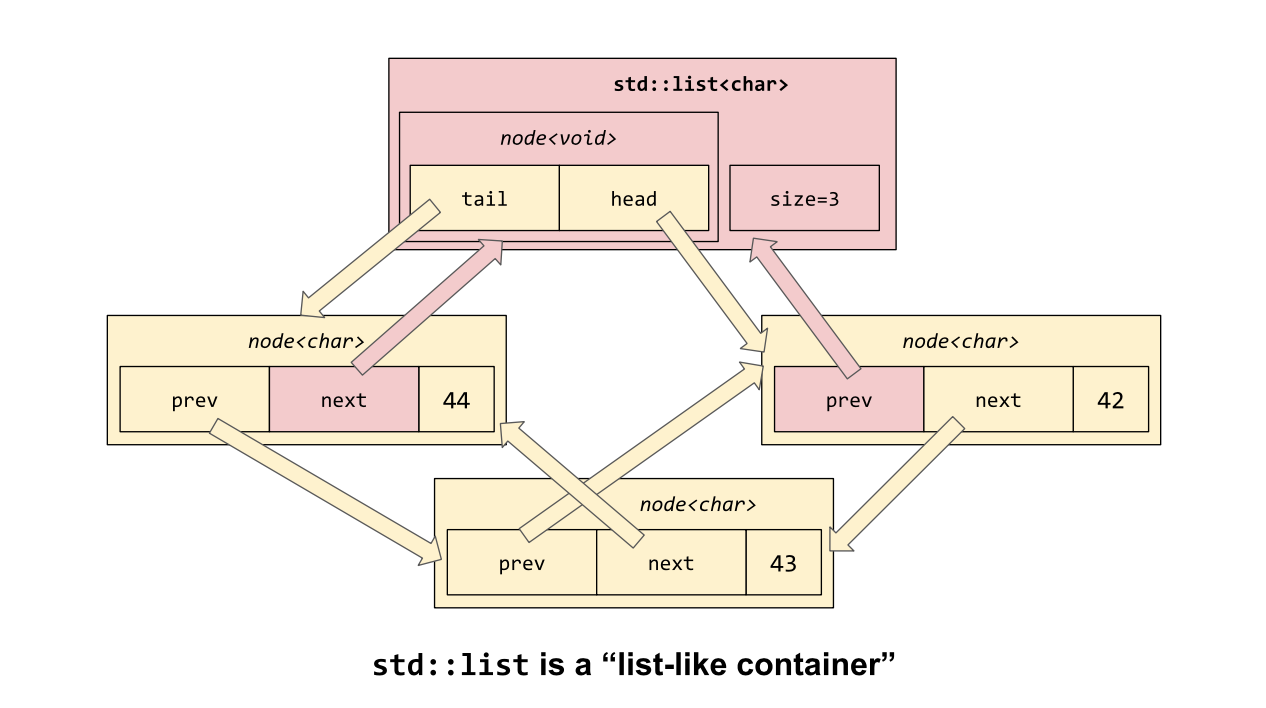
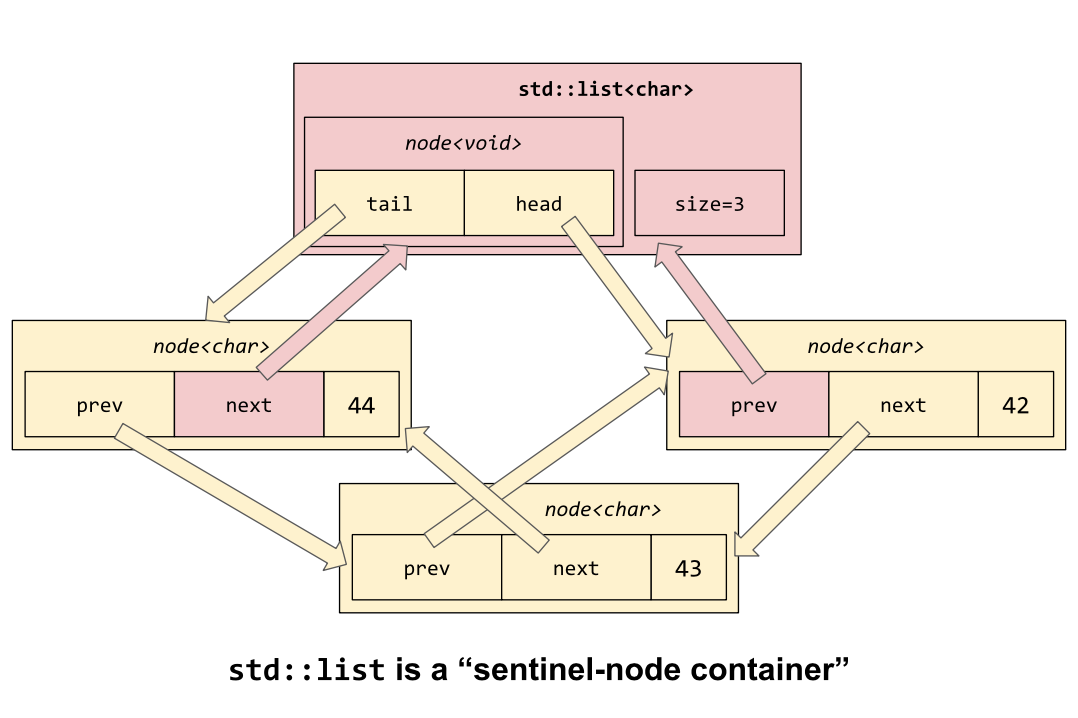
s/list-like/sentinel-node/ and add Bob's solution

Changed region(s): [[0.0, 0.0621, 1.0, 0.8701], [0.2143, 0.9011, 0.7959, 0.9633]]

diff --git a/fancy-pointers.html b/fancy-pointers.html
@@ -47,7 +47,7 @@ blockquote.std { color: #000000; background-color: #F1F1F1;
 blockquote.stddel { text-decoration: line-through;
   color: #000000; background-color: #FFEBFF;
   border: 1px solid #ECD7EC;
-  padding-left: 0.5empadding-right: 0.5em; ; }
+  padding-left: 0.5em; padding-right: 0.5em; }
 
 blockquote.stdins { text-decoration: underline;
   color: #000000; background-color: #C8FFC8;
@@ -755,19 +755,24 @@ these standard containers: <code>deque</code>, <code>forward_list</code>, <code>
 But these other standard containers <i>will</i> have technical difficulties with near fancy pointers:
 <code>list</code>, <code>map</code>, <code>set</code>, <code>unordered_set</code>, <code>unordered_map</code>.
 These containers have trouble because their natural implementation requires a linked list
-where some nodes in the linked list are allocated (i.e. fancy pointers identifying objects in
-the "small data area") and some nodes are not (i.e. these nodes are not in the "small data area"
-and thus are not addressable by the near fancy pointer type).
+where most nodes in the linked list are allocated (i.e. fancy pointers identifying objects in
+the "small data area") and some "sentinel node" is not (i.e. the sentinel node is not located
+in the "small data area" and thus is not addressable by the near fancy pointer type).
 </p>
 
 <p>
-Containers with this difficulty shall be called <dfn>list-like containers</dfn>.
+Containers with this difficulty shall be called <dfn>sentinel-node containers</dfn>.
 </p>
 
 <div display="block" align="center">
-<img src="fancy-pointers.fwdlist.png" width="40%" display="inline"></img>
 <img src="fancy-pointers.list.png" width="40%" display="inline"></img>
+<img src="fancy-pointers.fwdlist.png" width="40%" display="inline"></img>
 </div>
+
+<p>
+An implementation of <code>std::list</code> where the sentinel node is allocated (rather than being part of
+the container instance's member data) is not a <i>sentinel-node container</i>.
+</p>
 
 <p>
 We have the following possible solutions to this problem:
@@ -778,19 +783,19 @@ We have the following possible solutions to this problem:
         Any solution less appealing than this one can be summarily dismissed.)</span>
     </li>
     <li>
-        Near fancy pointer types are not allowed for <i>list-like containers</i>, but
+        Near fancy pointer types are not allowed for <i>sentinel-node containers</i>, but
         are allowed for other containers. The Standard would have to specify for each
         container whether it was list-like or not.
     </li>
     <li>
-        List-like containers use only native pointers for addressing.
+        Sentinel-node containers use only native pointers for addressing.
         These native pointers are cast back to fancy pointers at deallocation time.
         This solution loses the memory-footprint benefit we were hoping to get
         from using fancy pointers. This solution is incompatible with Scenarios A and E.
         (Therefore this solution is summarily dismissed.)
     </li>
     <li>
-        Each node of a list-like container holds an extra bit indicating whether the node
+        Each node of a sentinel-node container holds an extra bit indicating whether the node
         is allocated (in which case it is identified by a fancy pointer) or non-allocated
         (in which case it is identified by a native pointer).
         This solution loses the memory-footprint benefit we were hoping to get
@@ -798,7 +803,16 @@ We have the following possible solutions to this problem:
         (Therefore this solution is summarily dismissed.)
     </li>
     <li>
-        Near fancy pointer types are allowed for list-like containers, but if the container
+        Near fancy pointer types are allowed for sentinel-node containers, but if the container
+        cannot statically detect that its <code>pointer</code> type is wide enough to access
+        all of main memory, then the container will switch to an implementation where the
+        sentinel node is allocated using the same mechanism as other nodes.
+        <span>This solution essentially requires that vendors provide two implementations
+        of each sentinel-node container: one for efficiency and one for use with near fancy
+        pointers.</span>
+    </li>
+    <li>
+        Near fancy pointer types are allowed for sentinel-node containers, but if the container
         itself, or any subobject thereof, cannot be addressed with (a rebinding of) its own
         <code>pointer</code> type, then the behavior is undefined.
         <span class="clarification">This solution does not require any new work from vendors,
@@ -817,7 +831,7 @@ int main() {
 </p>
 
 <p>
-In my opinion, solutions (1), (2), and (5) are all tenable. Solution (1) is the de-facto
+In my opinion, solutions (1), (2), and (6) are all tenable. Solution (1) is the de-facto
 solution today: <b>Near fancy pointer types are just not allowed.</b>
 </p>
 
@@ -1269,7 +1283,7 @@ of a type at compile time.
 
 <p>
 If we are willing to force some work on vendors, my preferred solutions would be
-A-1 (continue the status quo on offset pointers), B-5 (support near pointers, with undefined behavior
+A-1 (continue the status quo on offset pointers), B-6 (support near pointers, with undefined behavior
 for certain uses of list-like containers); D-1 (do not support fat pointers),
 E-2 (fully support segmented pointers). I will refer to this set of solutions as
 <dfn>fancy-pointer-support</dfn>.
@@ -1279,7 +1293,7 @@ E-2 (fully support segmented pointers). I will refer to this set of solutions as
 <h2><a name="Requirements">Requirements on fancy pointer types if <i>fancy-pointer-support</i> were adopted.</a></h2>
 
 <p>
-Solution B-5 requires only that it be possible to cast a native pointer-to-<code>Base</code>
+Solution B-6 requires only that it be possible to cast a native pointer-to-<code>Base</code>
 (to a subobject of a list-like container; therefore, non-null) into a <i>dereferenceable</i>
 fancy pointer-to-<code>Base</code>. This requirement is translated into C++ terms via the
 standard trait <code>std::pointer_traits&lt;FancyPtrT&gt;::pointer_to(T& r)</code>.
@@ -1453,7 +1467,7 @@ This demonstrates the current state of my Scenario A (<i>offset pointers</i>) ac
 <tr><th>unordered_map (etc.) iterator</th><td>Yes</td><td>No </td><td>Yes</td><td>   </td></tr>
 <tr><th>flat_map (etc.) iterator</th>     <td>   </td><td>   </td><td>   </td><td>Yes</td></tr>
 <tr><th>vector iterator</th>              <td>Yes</td><td>Yes</td><td>Yes</td><td>Yes</td></tr>
-<tr><th>basic_string iterator</th>        <td>Yes</td><td>Yes</td><td>?</td><td>?</td></tr>
+<tr><th>basic_string iterator</th>        <td>Yes</td><td>Yes</td><td>Yes</td><td>Yes</td></tr>
 </table>
 
 <p>
